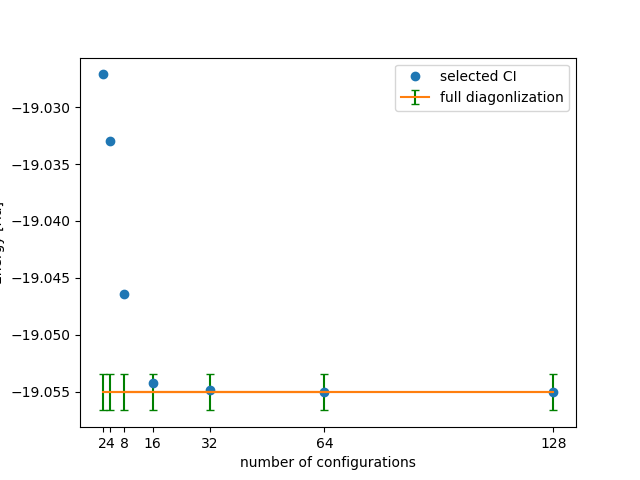
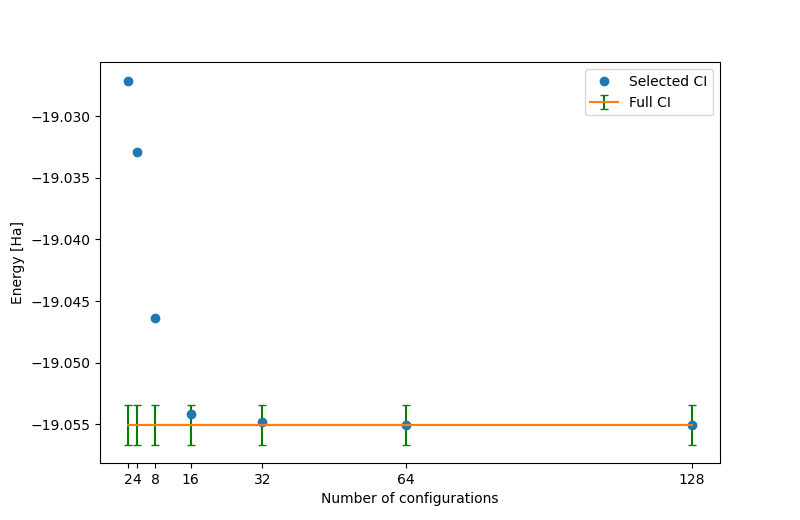
added more plots

diff --git a/plot_vqe_iterations.py b/plot_vqe_iterations.py
@@ -1,4 +1,37 @@
+from matplotlib import pyplot as plt
+from matplotlib.ticker import MaxNLocator
+
+
 counts=[1, 2, 3, 4, 5, 6, 7, 8, 9, 10, 11, 12, 13, 14, 15, 16, 17, 18, 19, 20, 21, 22, 23, 24, 25, 26, 27, 28, 29, 30, 31, 32, 33, 34, 35, 36, 37, 38, 39, 40, 41, 42, 43, 44, 45, 46, 47, 48, 49, 50, 51, 52, 53, 54, 55, 56, 57, 58, 59, 60, 61, 62, 63, 64, 65, 66, 67, 68, 69, 70, 71, 72, 73]
 energies=[-77.07395470569412, -76.65601451838705, -76.65601451838705, -76.78006848721952, -76.65601451838705, -76.74072228503292, -77.03714213542037, -77.04957348751884, -77.08127777225894, -77.06820161086213, -77.01350582885183, -77.10492614700078, -77.10735567761441, -77.10966120988644, -77.11406384065137, -77.09555841396241, -77.12213361473047, -77.12174396988078, -77.1177108878824, -77.11841803544374, -77.11982598390009, -77.12150751034824, -77.12215626022069, -77.12123555782475, -77.12230363968365, -77.12215906048925, -77.12283617747727, -77.12273153949727, -77.1226503176976, -77.12267587314, -77.12287294314714, -77.12285116115717, -77.12288976739916, -77.12301607001896, -77.12307209633784, -77.12302145654394, -77.12305424563743, -77.1230457823581, -77.12310574744569, -77.12307522375735, -77.12310197127695, -77.12309801461731, -77.1231026822162, -77.12310724173895, -77.12310277725666, -77.12310486042927, -77.12310986668649, -77.12311088427117, -77.12311300293362, -77.1231111011256, -77.12311237332429, -77.12311232929073, -77.12311306743126, -77.12311314442783, -77.12311237532865, -77.12311354789608, -77.12311328480044, -77.1231134551544, -77.12311359383608, -77.12311358317757, -77.12311356223032, -77.12311356233334, -77.123113590006, -77.12311359524494, -77.12311360129891, -77.12311360275166, -77.12311360352194, -77.12311361183305, -77.12311361567177, -77.12311361374816, -77.1231136153119, -77.1231136119564, -77.12311361381182]
 std_values=[0.0, 0.0, 0.0, 0.0, 0.0, 0.0, 0.0, 0.0, 0.0, 0.0, 0.0, 0.0, 0.0, 0.0, 0.0, 0.0, 0.0, 0.0, 0.0, 0.0, 0.0, 0.0, 0.0, 0.0, 0.0, 0.0, 0.0, 0.0, 0.0, 0.0, 0.0, 0.0, 0.0, 0.0, 0.0, 0.0, 0.0, 0.0, 0.0, 0.0, 0.0, 0.0, 0.0, 0.0, 0.0, 0.0, 0.0, 0.0, 0.0, 0.0, 0.0, 0.0, 0.0, 0.0, 0.0, 0.0, 0.0, 0.0, 0.0, 0.0, 0.0, 0.0, 0.0, 0.0, 0.0, 0.0, 0.0, 0.0, 0.0, 0.0, 0.0, 0.0, 0.0]
 ci_ground_energy=-77.1231136165595
+
+
+output_dir = 'VQE_iterations_summary'
+filename = '/C2H4_2Q_statevector.png'
+
+
+
+
+
+energy_diff = [x - ci_ground_energy for x in energies]
+chemical_accuracy = 0.0016
+error_bar = std_values
+exact = len(counts) * [chemical_accuracy]
+ax = plt.figure().gca()
+plt.errorbar(counts,exact,label='Chemical accuracy',linestyle="dashed",color='green',ecolor = 'black',capsize=3)
+# plt.plot(num_configs,exact,label='exact',linestyle="",marker="o")
+# plt.plot(num_configs,fci,label='fci',linestyle="dotted")
+# plt.xticks(counts)
+
+plt.xlabel("VQE iteration")
+plt.ylabel("Energy error [Ha]")
+plt.errorbar(counts,energy_diff, yerr = error_bar,linestyle="dotted",ecolor = 'red',label='VQE energy',capsize=3)
+plt.legend()
+ax.xaxis.set_major_locator(MaxNLocator(integer=True))
+
+
+file_path = output_dir + filename
+plt.savefig(file_path)
+plt.show()

diff --git a/find_num_needed_configs.py b/find_num_needed_configs.py
@@ -17,7 +17,8 @@ def create_chart(ci_mat_dir,compared_energy,chart_name):
     x = os.listdir(ci_mat_dir)
     for ci_mat_file in os.listdir(ci_mat_dir):
         configs_num = ci_mat_file.replace('.out','')
-        configs_num = [int(s) for s in configs_num.split('_') if s.isdigit()][-1]
+        x = configs_num.split('_')
+        configs_num = [int(s) for s in configs_num.split('_') if s.isdigit()][0]
 
         ci_mat_path = ci_mat_dir + '/' + ci_mat_file
         ci_mat = np.loadtxt(ci_mat_path)
@@ -30,19 +31,18 @@ def create_chart(ci_mat_dir,compared_energy,chart_name):
     
     
 
-    plt.figure()
+    fig = plt.figure(figsize=(8,5.2))
     # plt.errorbar(counts,exact,yerr=self.chemical_accuracy,label='exact',linestyle="dashed",color='green',ecolor = 'black',capsize=3)
     # plt.plot(num_configs,exact,label='exact',linestyle="",marker="o")
     # plt.plot(num_configs,fci,label='fci',linestyle="dotted")
     # plt.xticks(counts)
-    plt.xlabel("number of configurations")
+    plt.xlabel("Number of configurations")
     plt.ylabel("Energy [Ha]")
     
     plt.xticks(num_configs_list,num_configs_list)
-    plt.plot(num_configs_list,ci_energy_list,'o',label='selected CI')
-    plt.errorbar(num_configs_list,len(num_configs_list)*[compared_energy], yerr = CHEMICAL_ACCURACY,ecolor = 'green',label='full diagonlization',capsize=3)
+    plt.plot(num_configs_list,ci_energy_list,'o',label='Selected CI')
+    plt.errorbar(num_configs_list,len(num_configs_list)*[compared_energy], yerr = CHEMICAL_ACCURACY,ecolor = 'green',label='Full CI',capsize=3)
     plt.legend()
-
     # text = "exact ci E=" + str(round(ci_ground_energy,8)) + ' vqe best=' + str(round(self.optimal_energy ,8))
     
     filename = ci_mat_dir + '/' + chart_name + '_energy_vs_configs.png'
@@ -63,6 +63,6 @@ if __name__ == "__main__":
 
 
     ci_mat_dir = 'BeH2_1.3/CI_matrices'
-    fci_energy = -15.595047080804692- 3.4600048389961535
+    fci_energy = -15.595047080804692 - 3.4600048389961535
     chart_name = 'BeH2_1.3'
     create_chart(ci_mat_dir,fci_energy,chart_name)

diff --git a/test.py b/test.py
@@ -1,0 +1,2 @@
+import qiskit.aqua
+print(qiskit.__version__)
